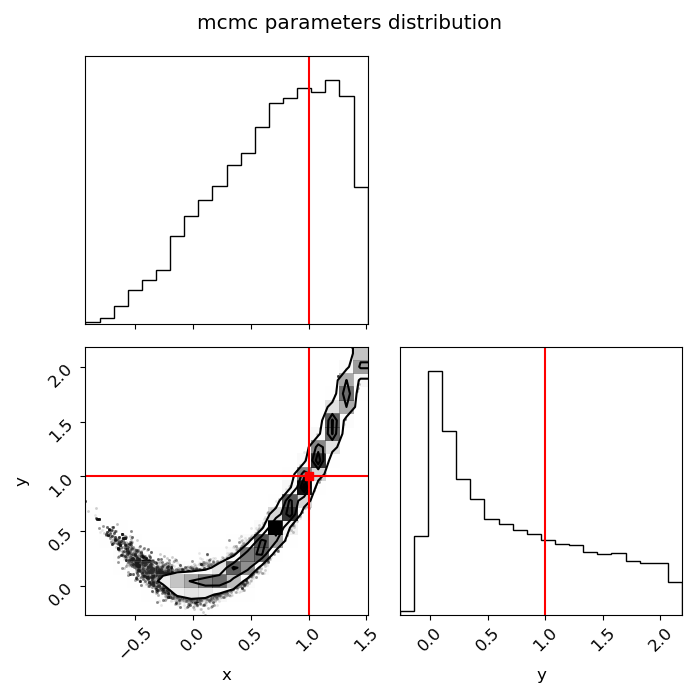
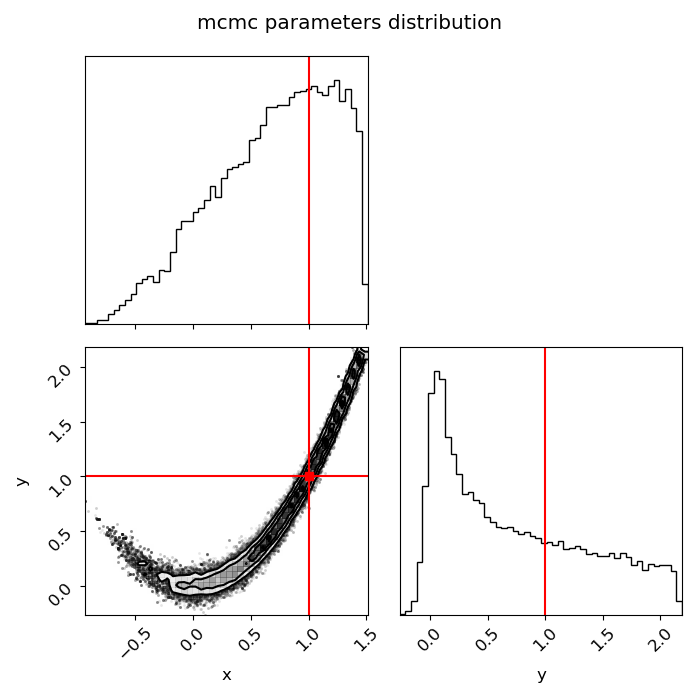
update example_mcmc.py and mcmc.md with additional plots and explanations.

diff --git a/examples/example_mcmc.py b/examples/example_mcmc.py
@@ -2,9 +2,12 @@ import corner
 import emcee
 import matplotlib.pyplot as plt
 import numpy as np
+import scipy
 from matplotlib.pyplot import cm
 from scipy.optimize import rosen
 
+from slurmcmc.general_utils import point_to_tuple
+from slurmcmc.mcmc import calculate_unique_points_weights
 from slurmcmc.mcmc import slurm_mcmc, get_gelman_rubin_statistic
 
 plt.close('all')
@@ -16,8 +19,12 @@ save_plots = False
 
 np.random.seed(0)
 
-param_bounds = [[-5, 5], [-5, 5]]
-minima = np.array([1, 1])
+num_params = 2
+num_walkers = 5 * num_params
+num_iters = 10000
+
+param_bounds = [[-5, 5] for i in range(num_params)]
+minima = np.ones(num_params)
 
 
 def log_prob(x):
@@ -43,10 +50,6 @@ def log_prob_with_constraint(x):
     else:
         return log_prob(x)
 
-
-num_params = 2
-num_walkers = 10
-num_iters = 10000
 
 # initial points chosen to satisfy constraint
 init_points = (np.array([[x0_constraint, y0_constraint] for _ in range(num_walkers)])
@@ -150,7 +153,9 @@ if save_plots:
 
 # corner plot of mcmc samples
 fig = plt.figure(figsize=(7, 7))
-corner.corner(samples_flat, labels=param_labels, color='k', truths=minima, truth_color='r', fig=fig, labelpad=-0.1)
+bins = 50
+corner.corner(samples_flat, labels=param_labels, color='k', truths=minima, truth_color='r', fig=fig, labelpad=-0.1,
+              bins=bins)
 plt.suptitle('mcmc parameters distribution')
 plt.tight_layout()
 
@@ -195,3 +200,73 @@ plt.tight_layout()
 
 if save_plots:
     plt.savefig('example_mcmc_convergence_diagnostics')
+
+mcmc_points_set, points_weights_dict = calculate_unique_points_weights(samples_flat)
+all_values_history = -2 * slurm_pool.values_history[:, 0]
+mcmc_values_history = all_values_history.copy()
+for ind_point, point in enumerate(slurm_pool.points_history):
+    if point_to_tuple(point) not in mcmc_points_set:
+        mcmc_values_history[ind_point] = np.nan
+
+fig, axs = plt.subplots(nrows=1, ncols=2, figsize=(12, 5))
+ax = axs[0]
+num_samples_array = list(range(len(all_values_history)))
+ax.plot(num_samples_array, all_values_history, '.k', linewidth=1, alpha=0.1, label='all samples')
+ax.plot(num_samples_array, mcmc_values_history, '.r', linewidth=1, alpha=0.1, label='mcmc samples')
+ax.set_xlabel('# samples')
+ax.set_ylabel('$\\chi^2$')
+ax.set_yscale('log')
+ax.legend()
+
+ax = axs[1]
+bins = 50
+hist_range = (0, 4 * num_params)
+ax.hist(all_values_history, range=hist_range, bins=bins, color='k', alpha=0.5, density=True,
+        label='all samples')
+ax.hist(mcmc_values_history, range=hist_range, bins=bins, color='r', alpha=0.5, density=True,
+        label=f'mcmc samples median={np.nanpercentile(mcmc_values_history, 50):.1f}')
+
+# plot the values for a reference normal distribution
+normal_num_params = 2
+mean = np.ones(normal_num_params)
+cov = np.eye(normal_num_params)
+normal_points = np.random.multivariate_normal(mean, cov, len(mcmc_values_history))
+diff = normal_points - mean
+cov_inv = np.linalg.inv(cov)
+cov_inv_diff = np.matmul(diff, cov_inv)
+samples_normal_MC = np.sum(diff * cov_inv_diff, axis=1)
+ax.hist(samples_normal_MC, range=hist_range, bins=bins, color='b', alpha=0.2, density=True,
+        label=f'normal d={normal_num_params} median={np.nanpercentile(samples_normal_MC, 50):.1f}')
+print(f'scipy.stats.chi2.ppf(0.5,{normal_num_params})={scipy.stats.chi2.ppf(0.5, num_params)}.')
+
+ax.set_xlabel('$\\chi^2$')
+ax.set_yticks([])
+ax.legend()
+
+fig.suptitle('log-probability values explored during mcmc')
+fig.suptitle('$\\chi^2$ values ($-2 \\times$log-probability) values explored during mcmc')
+fig.tight_layout()
+
+if save_plots:
+    plt.savefig('example_mcmc_log_probability_values_explore')
+
+# plot the parameter distributions for different iterations, to see how the distrbutions converge.
+fig = plt.figure(figsize=(7, 7))
+num_splits = 4
+num_iters_interval = int(samples.shape[0] / num_splits)
+nun_iters_list = np.arange(num_iters_interval, samples.shape[0], num_iters_interval)
+color_list = cm.rainbow(np.linspace(0, 1, num_splits))
+bins = 20
+num_subsamples = int(samples_flat.shape[0] / num_splits)
+for ind_n, n in enumerate(nun_iters_list):
+    samples_flat_subset = samples[:n].reshape(-1, samples.shape[-1])
+    random_indices = np.random.permutation(samples_flat_subset.shape[0])[0:num_subsamples]
+    samples_flat_subset = samples_flat_subset[random_indices, :]
+    corner.corner(samples_flat_subset, labels=None, color=color_list[ind_n], fig=fig, bins=bins,
+                  plot_datapoints=False, plot_density=False)
+
+fig.suptitle('mcmc parameters distribution (different iteration stops)')
+plt.tight_layout()
+
+if save_plots:
+    plt.savefig('example_mcmc_parameters_distribution_convergence')

diff --git a/examples/docs/mcmc.md b/examples/docs/mcmc.md
@@ -48,6 +48,20 @@ the points visited by the algorithm (black) and the points accepted to the MCMC 
 
 <img src="pics/example_mcmc_2d_visualization.png" alt="example_mcmc_2d_visualization" width="700" height="auto">
 
-The final product of the Bayesian analysis, a [``corner``](https://github.com/dfm/corner.py) plot of the parameters distribution:
+Aother visualization is to look at $\chi^2=-2\cdot \log p$ values evolution during the MCMC, 
+and the histogram of the values accepted to the MCMC samples set (red).
+
+<img src="pics/example_mcmc_log_probability_values_explore.png" alt="example_mcmc_log_probability_values_explore" width="1200" height="auto">
+
+The histogram can be compared with the one generated from a normal iid distribution in 2 dimensions (blue).
+The medians of both distributions are numerically calculated and written in the legend. 
+For the normal distribution the median can also be calculated with the built-in function `scipy.stats.chi2.ppf(0.5, 2)`.
+In our chosen example of the log-probability function the median value is lower than for the normal distribution due to the correlation between parameters.
+
+The final product of the Bayesian analysis is a [``corner``](https://github.com/dfm/corner.py) plot of the parameters distribution:
 
 <img src="pics/example_mcmc_parameters_distribution.png" alt="example_mcmc_parameters_distribution" width="700" height="auto">
+
+A convergence test of the parameters distributions, assuming the MCMC is stopped at 4 different points along the chains:
+<img src="pics/example_mcmc_parameters_distribution_convergence.png" alt="example_mcmc_parameters_distribution_convergence" width="700" height="auto">
+
